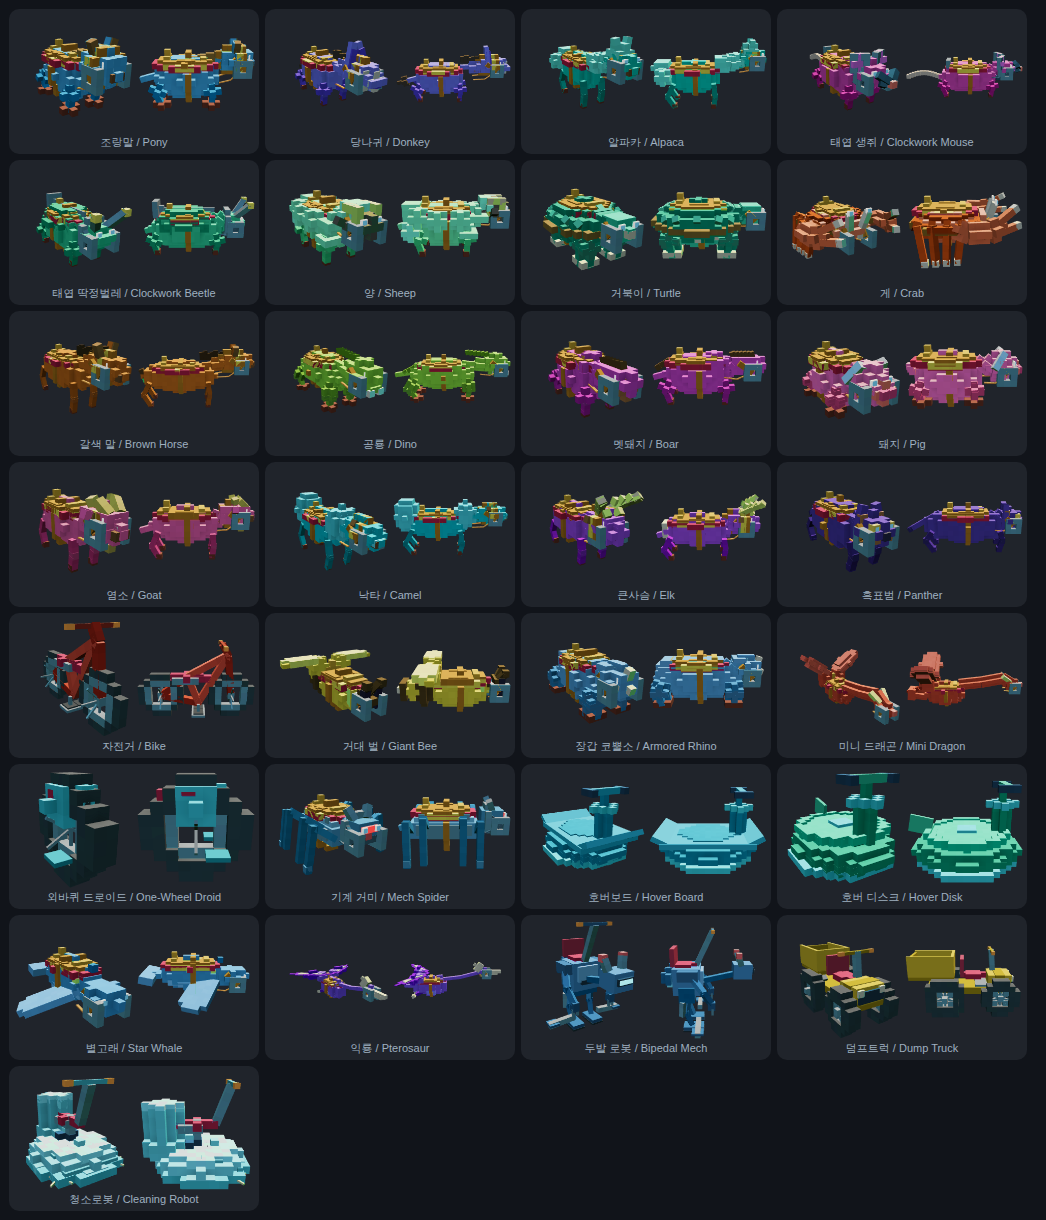
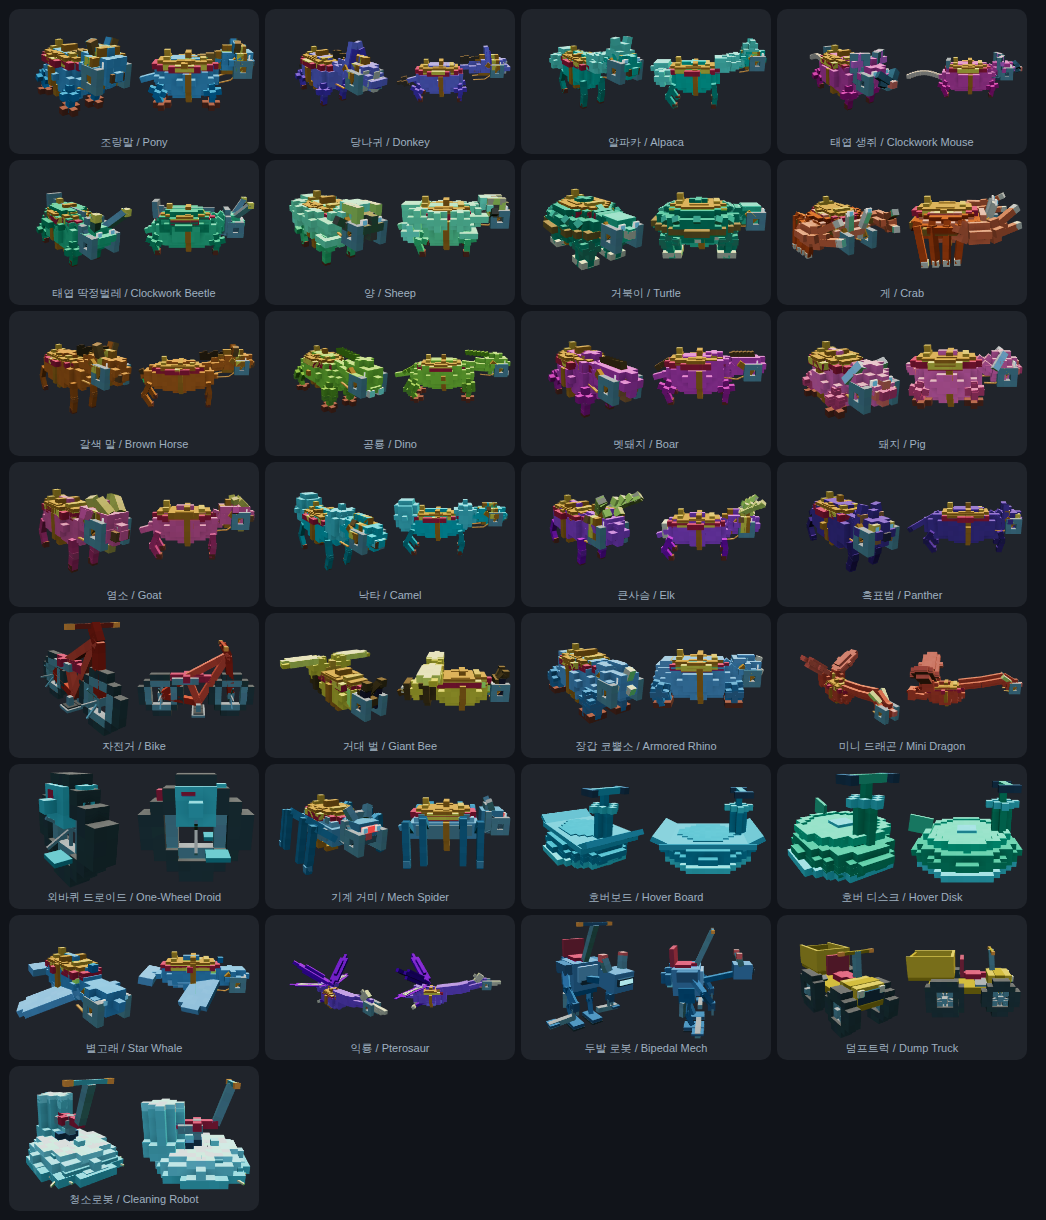
탈것 익룡 목 썸네일 전용 굵힘 겹 — 가는 wire 목·멀리 뜬 머리를 청키하게, ride-clear 무영향
프레시 비평가 만장일치 최악(#26) = 긴 목이 '가는 줄(wire/wand)'이라
머리가 멀리 떠 있는 별개 조각으로 읽힘. 실물 목 3마디는 라이더 시선 띠
(z 0.14~0.55)를 가늘게 지나야 probe-ride-clear 를 통과해 굵힐 수 없다 —
채점 대상 썸네일엔 라이더가 없어 ride-clear 제약이 없다는 점을 이용(막날개
showInThumb 와 동형). 같은 3마디 경로에 두꺼운 겹(반지름 ~2배)을 얹되
visible=false + showInThumb 로 인게임 렌더·ride-clear raycast 에서 제외.
몸색이라 목의 연장으로 읽힌다.

검증: node --check · probe-ride-clear Pterosaur 전부 통과(머리/목 추가 가림
0% 편집 전후 동일·근쪽 다리 노출) · probe-mount-detached Pterosaur 51파츠
따로노는조각 0 · probe-creature-framing 전 항목 PASS · probe-geo-ratchet 101
유지(tube2=복셀 박스라 곡면 0 증가) · mount-species.png 육안 목이 청키하게
차 머리가 몸에 붙어 읽힘 · 콘솔 0

Changed region(s): [[0.2753, 0.7787, 0.4895, 0.841], [0.3671, 0.5295, 0.4895, 0.5918]]

diff --git a/web/js/scene3d.js b/web/js/scene3d.js
@@ -11618,6 +11618,20 @@ const Scene3D = {
                 //    (mount-fly-head-proximity, 드래곤과 같은 처치). 이 마디는 z 0.86~0.96 이라 시선 띠
                 //    (z 0.14~0.55, 위 익룡 🚨 주석 — 그 구간은 안 건드림)의 앞이라 ride-clear 안전.
                 HEADPART(tube2([0, 0.468, 0.86], [0, 0.492, 0.96], 0.044, 0.050, mat));   // 머리 밑동으로 — 굵혀 잇는다
+                // 🧊 목 썸네일 전용 굵힘 겹 (slug: mount-ptero-neck-thumb-bulk). 프레시 비평가 만장일치
+                //    최악(#26) = 긴 목이 '가는 줄(wire/wand)'이라 머리가 멀리 떠 있는 별개 조각으로 읽힌다.
+                //    실물 목(위 3마디)은 시선 띠(z 0.14~0.55, y 낮음)를 가늘게 지나야 `probe-ride-clear` 를
+                //    통과한다 — 굵히면 근쪽 다리 가림이 깨진다(익룡 목 🚨 주석의 그 벽). 🔑 채점 대상 썸네일엔
+                //    라이더가 없어 ride-clear 제약 자체가 없다(막날개 showInThumb 와 동형) → 실물 목은 그대로
+                //    두고 **같은 경로에 두꺼운 겹**을 얹되 `visible=false`+`showInThumb` 로 ⓐ 인게임 렌더 제외
+                //    ⓑ `probe-ride-clear` raycast 제외(invisible 스킵). 몸색(mat)이라 목의 연장으로 읽힌다.
+                //    HEADPART 로 안 달아 neck 그룹 밖 형제로 rest 좌표에 굳힌다(썸네일은 정지 포즈 — 막 겹과 동형).
+                for (const seg of [[[0, 0.335, 0.14], [0, 0.385, 0.55], 0.088, 0.100],
+                                   [[0, 0.385, 0.55], [0, 0.468, 0.86], 0.070, 0.088],
+                                   [[0, 0.468, 0.86], [0, 0.492, 0.96], 0.062, 0.068]]) {
+                    const sleeve = tube2(seg[0], seg[1], seg[2], seg[3], mat);
+                    sleeve.visible = false; sleeve.userData.showInThumb = true;
+                }
                 // 머리색 `light`→`mat`: 창백한 작은 머리가 긴 목 끝에서 '떠 있는 회색 박스'로 읽혔다
                 //    (블라인드 비평가 2인). 몸·목과 한 색으로 묶어 붙어 읽히게 — 부리·볏은 BONE 각질색이라 얼굴 판독 유지.
                 HEADPART(sp(0.070, 0, 0.49, 0.99, mat, 1.0, 0.92, 1.25));            // 머리(작고 납작) — 몸색으로 통일
